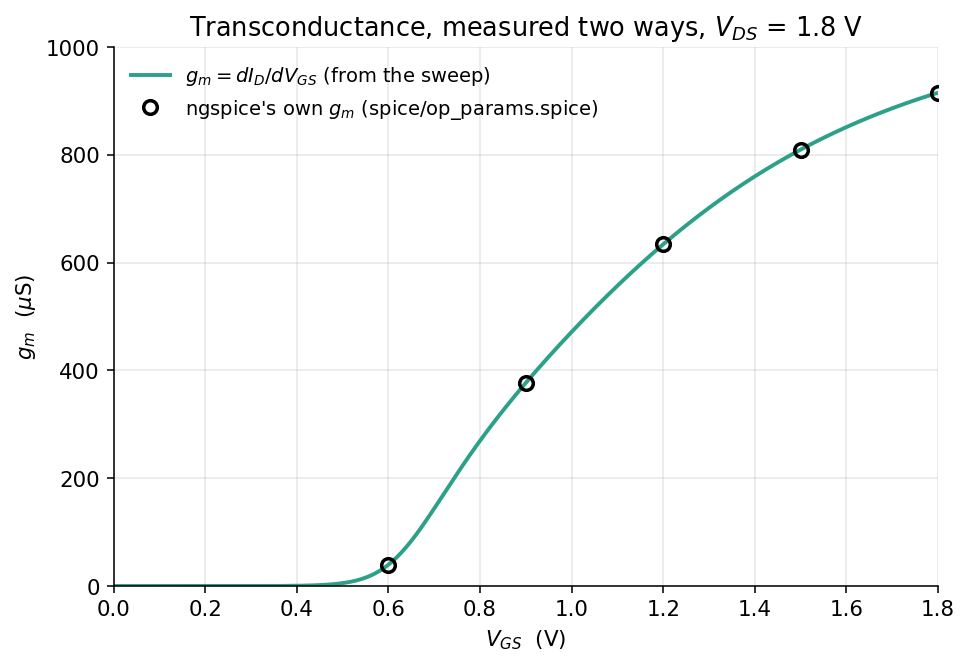
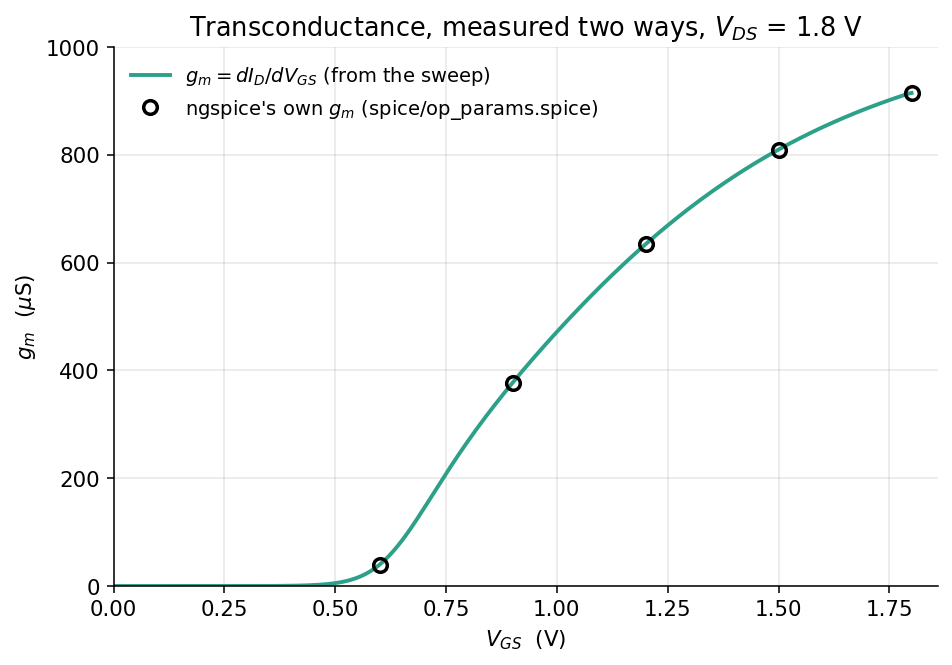
Fix the GUI flow: what the pages say a mouse does, and what it does
Ten agents drove every GUI-based lab with real X11 mouse and keyboard events.
This fixes what they found in AD103, re-verified by replaying each fix.

Lab 02 was fatal. Its pages promise "no environment setup at all", and in
exactly that state PDK is the image default (ihp-sg13g2), so xschem/xschemrc
loaded the IHP libraries: the bench netlisted to "D1 - diode IS MISSING !!!!",
ngspice ran silently and wrote 1901 rows of zero, and check.py died with a
ZeroDivisionError instead of a FAIL. Four stages, four chances to say something
was wrong, silence at all four - the failure mode this lab exists to teach.
xschemrc now pins PDK for itself, so the promise holds; the fit guards an empty
point set and check.py turns it into a readable FAIL.

Shift-W was wrong in seven places. Measured with wires read back out of the
saved .sch: Shift-W snaps the FIRST point to the nearest pin at any distance,
and the closing click is an ordinary click that lands on the grid. Aimed 28
units from a pin: plain closing click landed on the grid, Shift held for the
closing click landed exactly on the pin. Both checkers used to advise the
instruction that caused the failure, so a student looped.

The capstone scaffold's supply stubs sat at y=-195 and y=135 with SNAP=10 and
the device pins at -190 and 130 - unreachable with the mouse, and five units
off the shipped answer key's own wires. Moved onto the grid; an inverter built
[…]

diff --git a/labs/lab-03-mosfet-regions/src/plot_curves.py b/labs/lab-03-mosfet-regions/src/plot_curves.py
@@ -74,7 +74,10 @@ def fig_id_vds(out):
     ax.plot(kx, ky, "ko", ms=5.5, zorder=6)
     ax.annotate("$V_{DS} = V_{DSAT}$ — the drain end\nof the channel pinches off",
                 xy=(kx[min(3, len(kx)-1)], ky[min(3, len(ky)-1)]),
-                xytext=(0.84, 520),
+                # Keep clear of the SATURATION sub-caption at y=568: at y=520
+                # the first line ran straight through "a current source the
+                # gate sets" and both strings became unreadable.
+                xytext=(0.95, 320),
                 fontsize=9.5, ha="left",
                 arrowprops=dict(arrowstyle="->", color="k", lw=1.1), zorder=7)
 
@@ -211,7 +214,9 @@ def fig_gm(out):
     mg = [39.4793, 376.930, 634.0277, 809.7057, 915.3117]
     ax.plot(mv, mg, "ko", ms=7, mfc="none", mew=1.8,
             label="ngspice's own $g_m$ (spice/op_params.spice)")
-    ax.set_xlim(0, 1.8)
+    # A little past 1.8 so the V_GS = 1.8 V marker - the one number Step 4 asks
+    # you to read off this plot - is a whole circle, not one the spine cuts in half.
+    ax.set_xlim(0, 1.86)
     ax.set_ylim(0, 1000)
     ax.set_xlabel("$V_{GS}$  (V)")
     ax.set_ylabel("$g_m$  ($\\mu$S)")

diff --git a/labs/lab-01-first-schematic/src/check_mine.py b/labs/lab-01-first-schematic/src/check_mine.py
@@ -75,9 +75,11 @@ if invented:
     problems.append(
         f"the netlist contains {', '.join(invented)}. XSchem invents a name "
         f"like that for every pin connected to nothing, and it does it silently. "
-        f"Find the wire that ends near a pin instead of on it - Shift-W snaps to "
-        f"the nearest pin. Run 'make unconnected' to see what a floating gate "
-        f"does to the answer")
+        f"Find the wire that ends near a pin instead of on it. Shift-W snaps "
+        f"the START of a wire onto the nearest pin - for the far end you have to "
+        f"keep Shift held down for the click that finishes the wire, or draw the "
+        f"wire the other way round. Run 'make unconnected' to see what a floating "
+        f"gate does to the answer")
 
 # --- 4. the four node names ------------------------------------------------
 if len(nfets) == 1:

diff --git a/labs/lab-02-diode-iv/src/iv.py b/labs/lab-02-diode-iv/src/iv.py
@@ -73,6 +73,15 @@ def fit_exponential(v, i, lo=FIT_LO, hi=FIT_HI):
     """
     xs = [(vv, math.log(ii)) for vv, ii in zip(v, i) if lo <= ii <= hi]
     n_pts = len(xs)
+    if n_pts < 2:
+        # Nothing to fit. A sweep that never gets between lo and hi amps is
+        # almost always a sweep with no diode in it: the netlist said
+        # "IS MISSING", ngspice solved it anyway, and every current is zero.
+        raise ValueError(
+            f"the curve has no points between {lo:.0e} A and {hi:.0e} A, so "
+            f"there is no exponential to fit. A sweep that is flat at zero "
+            f"means the model never loaded - check that the netlist has no "
+            f"'IS MISSING' line and that PDK is sky130A")
     mx = sum(p[0] for p in xs) / n_pts
     my = sum(p[1] for p in xs) / n_pts
     sxy = sum((p[0] - mx) * (p[1] - my) for p in xs)

diff --git a/labs/capstone-inverter/src/check_mine.py b/labs/capstone-inverter/src/check_mine.py
@@ -58,8 +58,9 @@ if invented:
     problems.append(f"the netlist contains invented net names "
                     f"({', '.join(invented[:4])}). XSchem makes one of those up "
                     f"for every pin that is not connected to anything. Find the "
-                    f"wire that does not quite land on its pin - Shift-W snaps "
-                    f"to the nearest one")
+                    f"wire that does not quite land on its pin. Shift-W snaps the "
+                    f"START of a wire onto the nearest pin; the click that ENDS it "
+                    f"only snaps if you keep Shift held down for that click too")
 
 # --- 4. the four nodes on each device line ----------------------------------
 # Order on a sky130 device line is: drain gate source body.

diff --git a/labs/lab-02-diode-iv/src/check.py b/labs/lab-02-diode-iv/src/check.py
@@ -95,7 +95,12 @@ for cur, ref in REF_V_AT.items():
                         f"{ref:.6f} V")
 
 # --- 5. the slope, and the parameter hiding in it ---------------------------
-mvdec, n, i0, npts = fit_exponential(v, i)
+try:
+    mvdec, n, i0, npts = fit_exponential(v, i)
+except ValueError as exc:
+    print("FAIL")
+    print(f"  - {exc}")
+    sys.exit(1)
 notes.append(f"slope       = {mvdec:.4f} mV/decade over {npts} points "
              f"(reference {REF_MV_DECADE:.4f})")
 notes.append(f"ideality n  = {n:.5f}          (reference {REF_N:.5f}; "

diff --git a/labs/lab-04-wl-knob/src/wl.py b/labs/lab-04-wl-knob/src/wl.py
@@ -35,6 +35,11 @@ def read_log(name: str) -> dict[str, float]:
             out[key] = float(val.strip().split()[0])
         except (ValueError, IndexError):
             continue
+    if not out:
+        raise SystemExit(
+            f"{path} has no 'key = number' lines in it. ngspice produced no\n"
+            f"measurements - the usual cause is that it never ran. First line of\n"
+            f"the log: {path.read_text().splitlines()[0] if path.read_text().strip() else '(empty)'}")
     return out
 
 

diff --git a/docs/guide/getting-started.md b/docs/guide/getting-started.md
@@ -186,8 +186,8 @@ own list — **Help → Keys**, or press `/` for a full-screen poster of them.
 | Zoom in / out | mouse wheel, or `Shift-Z` / `Ctrl-Z` |
 | Pan | hold `Space` and drag, or drag with the middle button |
 | Insert a symbol | `Shift-I` (or `Ins`) |
-| Draw a wire | `w` — click the two ends |
-| Draw a wire that snaps onto the nearest pin | `Shift-W` |
+| Draw a wire | `w` — press it at one end, then click the other |
+| Draw a wire whose **ends** snap onto the nearest pin | `Shift-W`, and hold `Shift` for the closing click too |
 | Place a net label | `Alt-L` |
 | Edit the selected thing's properties | `q` |
 | Duplicate / move / delete selection | `c` / `m` / `Delete` |
@@ -242,8 +242,14 @@ because they are filled in per instance, which is what §8 is about.*
 Why those names, and what the other seventy-odd devices are for:
 [Which SKY130 device is which](reference/sky130-device-guide.md).
 
-> **The chooser opens somewhere unhelpful.** Click **Home** to jump back to the top of the
-> tree. It remembers where you were last, which is a feature right up until it isn't.
+> **The chooser opens somewhere unhelpful — in two different senses.** It remembers the
+> directory you were last in, which is a feature right up until it isn't; click **Home** to
+> jump back to the top of the tree. It also opens *positioned* relative to the main XSchem
+> window, and because that window is nearly as wide as the screen, on a 1280-wide desktop the
+> chooser lands mostly off the right edge — the library pane this page tells you to click, the
+> file list, the Search box and **OK** can all be past it. Drag it back by the sliver of title
+> bar that is on screen (or alt-drag anywhere in it) before you try to use it. It stays where
+> you put it for the rest of the session. `q`'s **Edit Properties** window does the same thing.
 
 ## 8. ⚠ `W=1`, never `W=1u`
 
@@ -303,7 +309,10 @@ after it, you are about to spend twenty minutes on this.
 
 ## 9. Wire it up
 
-Press `w`, then click the two ends of the wire. That places **one straight segment** — for an
+Put the pointer on the first end, press `w`, move to the second end, and click. The key is
+what anchors the start — `w` grabs wherever the pointer already is, so pressing `w` and *then*
+clicking two places draws a wire from wherever you were parked to the first click, and nothing
+at all between the two places you clicked. That places **one straight segment** — for an
 L-shape, draw two.
 
 Two things about wires that cost everyone their first half hour:
@@ -316,7 +325,13 @@ Two things about wires that cost everyone their first half hour:
   merely cross do not connect. XSchem draws a small solid dot at a real junction — there is one
   in `nmos_probe.sch` further down this page, where the body and source wires meet — and draws
   nothing where two wires simply pass over each other. If you are not sure a wire will land on a
-  pin, use **`Shift-W`** instead of `w`: it snaps the endpoint to the nearest pin or net endpoint.
+  pin, use **`Shift-W`** instead of `w` — but hold `Shift` down for the closing click as well.
+  `Shift-W` snaps the end you *start* from onto the nearest pin or net endpoint however far away
+  it is; the click that finishes the wire is an ordinary click, and an ordinary click lands on
+  the snap grid. It will pull onto a pin that is already within about one snap step, which is
+  why the mistake is intermittent rather than obvious. Measured on a pin 28 units away: plain
+  closing click landed on the grid 28 units short; `Shift` held for the closing click landed
+  exactly on the pin.
 
 ![Two pairs of XSchem wires side by side: on the left they cross with nothing drawn at the crossing, on the right they meet at a small solid dot](../assets/img/xschem-wire-junction.png)
 
@@ -349,8 +364,14 @@ Note what the symbol tells you before you simulate anything: `nfet_01v8`, `nf=1`
 `1 x 1 / 0.15` — that is `mult × W / L`. XSchem annotates the size on every device, so you can
 audit a page of transistors at a glance.
 
-`Ctrl-S` saves. Save often; XSchem has no autosave, and the tab title carries a `*` while you
-have unsaved changes.
+`Ctrl-S` saves — but it does not save straight away. Every time, on a perfectly writable file,
+it raises a small modal window titled **Ask Save** reading `save file?` with **Yes / Cancel /
+No**, placed wherever the pointer happens to be. Nothing reaches disk until you press **Yes**
+(or `Return`), and the tab keeps its `*` until you do. Press `Ctrl-S`, look away, and run
+`make mine`, and you will be checking the *last* version you saved — usually the one with no
+transistor in it, which produces a confident `FAIL - the netlist has no nfet_01v8` and sends
+you hunting for a placement bug that is not there. Save often; XSchem has no autosave, and the
+tab title carries a `*` while you have unsaved changes.
 
 `nmos_probe.sch` is the lab's **reference** — `make` in §11 checks against it, so it is the one
 file in the course you want to keep exactly as shipped. Practise on it freely (`u` undoes any

diff --git a/docs/reference/xschem-cheatsheet.md b/docs/reference/xschem-cheatsheet.md
@@ -56,7 +56,7 @@ Three parts of that window earn their keep:
 | Rotate the selection | <kbd>Shift</kbd>+<kbd>R</kbd> |
 | Get out of whatever mode you are in | <kbd>Escape</kbd> |
 | Undo | <kbd>u</kbd> |
-| Save | <kbd>Ctrl</kbd>+<kbd>S</kbd> |
+| Save | <kbd>Ctrl</kbd>+<kbd>S</kbd>, then **Yes** in the `save file?` box it always raises |
 | Write the SPICE netlist | <kbd>n</kbd> |
 
 Learn those and you can draw AD103's schematics. Everything below is detail.
@@ -82,7 +82,8 @@ Learn those and you can draw AD103's schematics. Everything below is detail.
 | Insert symbol | <kbd>Shift</kbd>+<kbd>I</kbd>, or <kbd>Insert</kbd>, or **Tools → Insert symbol** |
 | Insert symbol, browser stays open | <kbd>Ctrl</kbd>+<kbd>I</kbd> (also <kbd>Shift</kbd>+<kbd>Insert</kbd>) |
 | Wire | <kbd>w</kbd> |
-| Wire that snaps to the nearest pin | <kbd>Shift</kbd>+<kbd>W</kbd> |
+| Wire whose **start** snaps to the nearest pin | <kbd>Shift</kbd>+<kbd>W</kbd> |
+| Wire whose **far end** snaps too | <kbd>Shift</kbd>+<kbd>W</kbd>, then hold <kbd>Shift</kbd> for the closing click |
 | Text label (a comment, not a net name) | <kbd>t</kbd> |
 | Line / rectangle / polygon (drawing, not circuitry) | <kbd>l</kbd> / <kbd>r</kbd> / <kbd>p</kbd> |
 | Net label — name a wire | <kbd>Alt</kbd>+<kbd>l</kbd> places `lab_pin.sym` |
@@ -183,7 +184,7 @@ however far apart they are drawn. AD103's testbenches use this for supplies and 
 |---|---|
 | Write the SPICE netlist for this schematic and everything under it | <kbd>n</kbd>, or the **Netlist** button |
 | Netlist only this level, no hierarchy | <kbd>Shift</kbd>+<kbd>N</kbd> |
-| Run the simulator | <kbd>s</kbd>, or the **Simulate** button (it asks first) |
+| Run the simulator | <kbd>s</kbd> (it asks `Run circuit simulation?` first), or the **Simulate** button (it does not ask — it just runs) |
 | Look at results | the **Waves** menu — `Op`, `Dc`, `Ac`, `Tran` |
 | Annotate DC operating point onto the schematic | **Waves → Op Annotate** |
 | Fire a launcher (one of the green arrows on a testbench) | click it once, then <kbd>Ctrl</kbd>+<kbd>H</kbd> |
@@ -279,10 +280,13 @@ PDK=ihp-sg13g2
 
 Set it *inside* the command — `export PDK=sky130A`, or on the command itself
 (`PDK=sky130A xschem -n -q -x nmos_probe.sch`), or let the lab `Makefile` do it, which is
-what every AD103 lab that drives XSchem already does: `export PDK := sky130A` near the top
-of `lab-01-first-schematic`, `lab-03-mosfet-regions`, `lab-04-wl-knob` and
-`capstone-inverter`. (`lab-02-diode-iv` and `survival-card` never launch XSchem, so they
-pin only `PDK_ROOT`, which is all their `.lib` lines need.)
+what every AD103 lab that ships a schematic already does: `export PDK := sky130A` near the top
+of `lab-01-first-schematic`, `lab-02-diode-iv`, `lab-03-mosfet-regions` and
+`capstone-inverter`. `lab-02-diode-iv` goes further and pins `PDK` inside its own
+`xschem/xschemrc`, because that lab promises to run with no environment set up at all and its
+bench has to keep that promise when you open it by hand. (`lab-04-wl-knob` and `survival-card`
+ship no schematic and never launch XSchem; `survival-card` pins only `PDK_ROOT`, which is all
+its `.lib` lines need.)
 
 **Reflex check:** `grep -c 'IS MISSING' xschem/simulation/*.spice` must print `0`.
 

diff --git a/labs/lab-04-wl-knob/README.md b/labs/lab-04-wl-knob/README.md
@@ -115,10 +115,12 @@ runs from **396.63** at $L$ = 0.15 µm to **791.90** at $L$ = 4 µm. It doubles.
 **2. `mult=2` does nothing, silently.** The sky130 subcircuit declares a
 parameter called `mult` and then never uses it, so a hand-written line reading
 `W=5 mult=2` simulates as a single 5 µm device and ngspice says nothing at all.
-`m=2` is the one that works. XSchem's symbol writes **both** onto every device
-line — look at any netlist from Lab 01 and you will see `mult=1 m=1` — which is
-why the schematic path gets this right and the copy-the-device-line path does
-not.
+`m=2` is the one that works. XSchem's symbol writes `m=` for you as soon as `mult`
+is anything other than 1: set `mult=2` on a device in the property editor and the
+line comes out `... sd=0 mult=2 m=2` and the current doubles. (At `mult=1` there is
+nothing to multiply, so the line ends `... sd=0 mult=1` with no `m=` — do not go
+looking for one in a Lab 01 netlist.) That is why the schematic path gets this
+right and the copy-the-device-line path does not.
 
 **3. `nf` is not in $W/L$ and it changes the answer by 4.5 %.** `W=10 nf=2`
 carries 1458.136 µA against `W=10 nf=1`'s 1395.320 µA. Same width, same length,

diff --git a/docs/labs/lab-04-wl-knob-overview.md b/docs/labs/lab-04-wl-knob-overview.md
@@ -144,9 +144,10 @@ make predict
   `/foss/pdks/sky130A/libs.tech/ngspice/sky130.lib.spice.tt.red`, where the `.subckt` line
   lists `mult = 1` and the device line inside carries no `m = {mult}`. So `mult=2` in a
   hand-written deck is accepted, ignored, and never mentioned. `m=2` is the one that works.
-  XSchem's symbol writes **both** — look at any netlist from Lab 01 and you will find
-  `mult=1 m=1` on the device line — which is why the schematic route gets this right and
-  copying a device line by hand does not.
+  XSchem's symbol writes `m=` for you whenever `mult` is not 1 — set `mult=2` in the property
+  editor and the device line comes out `... sd=0 mult=2 m=2`, and the current doubles. (At
+  `mult=1` the line ends `... sd=0 mult=1` with no `m=`, because there is nothing to multiply.)
+  That is why the schematic route gets this right and copying a device line by hand does not.
 
   **F is not in $W/L$ at all.** `nf=2` folds one 10 µm channel into two 5 µm fingers that share
   a drain diffusion. Same $W$, same $L$, same bias, **+4.50 %**. That is a fact about the

diff --git a/docs/labs/lab-03-mosfet-regions-overview.md b/docs/labs/lab-03-mosfet-regions-overview.md
@@ -179,7 +179,14 @@ cd xschem
 PDK=sky130A xschem nmos_curves.sch &
 ```
 
-Press **Netlist & Simulate**, then `python3 src/check.py` from the lab folder. It
+**Netlist & Simulate** is a green launcher arrow on the canvas, not a toolbar button, and a
+plain left-click on it only selects it — no netlist, no simulation, no message. **Click the
+arrow once to select it, then press `Ctrl-H`** to fire it. (Ctrl-click on the arrow also works,
+but it misses if your hand drifts between press and release. The
+[XSchem cheat sheet](../reference/xschem-cheatsheet.md) has the same note.) Run `make` at least
+once before taking this route, so that `results/` exists for the schematic to write into.
+
+Then `python3 src/check.py` from the lab folder. It
 still says `PASS` — the schematic writes the same `results/id_vds.txt`. The drawn
 device does draw **696.226 µA** rather than 696.275 µA, because the XSchem symbol
 adds the diffusion resistances `nrd`/`nrs` that the hand deck omits. Fifty

diff --git a/docs/labs/lab-02-diode-iv-overview.md b/docs/labs/lab-02-diode-iv-overview.md
@@ -20,8 +20,12 @@ the shape of your own graph.
 
 Nothing else. This lab runs in a bare container with **no environment setup at all** — no
 `.designinit`, no `mod`, no `PDK` variable. The decks find the models through `PDK_ROOT`, which
-the image already sets to `/foss/pdks`, and the `Makefile` pins it anyway. If your
-Getting-started environment is half-broken, this lab still works, and that is deliberate.
+the image already sets to `/foss/pdks`, and the `Makefile` pins it anyway. The XSchem bench in
+`xschem/` needs `PDK=sky130A` to find its symbol libraries, so `xschem/xschemrc` sets that for
+itself rather than trusting the environment — the image's own default is the IHP process, and
+on it this bench netlists to `D1 - diode IS MISSING !!!!`, simulates without a single error,
+and writes a column of zeros. If your Getting-started environment is half-broken, this lab
+still works, and that is deliberate.
 
 ## Objectives
 
